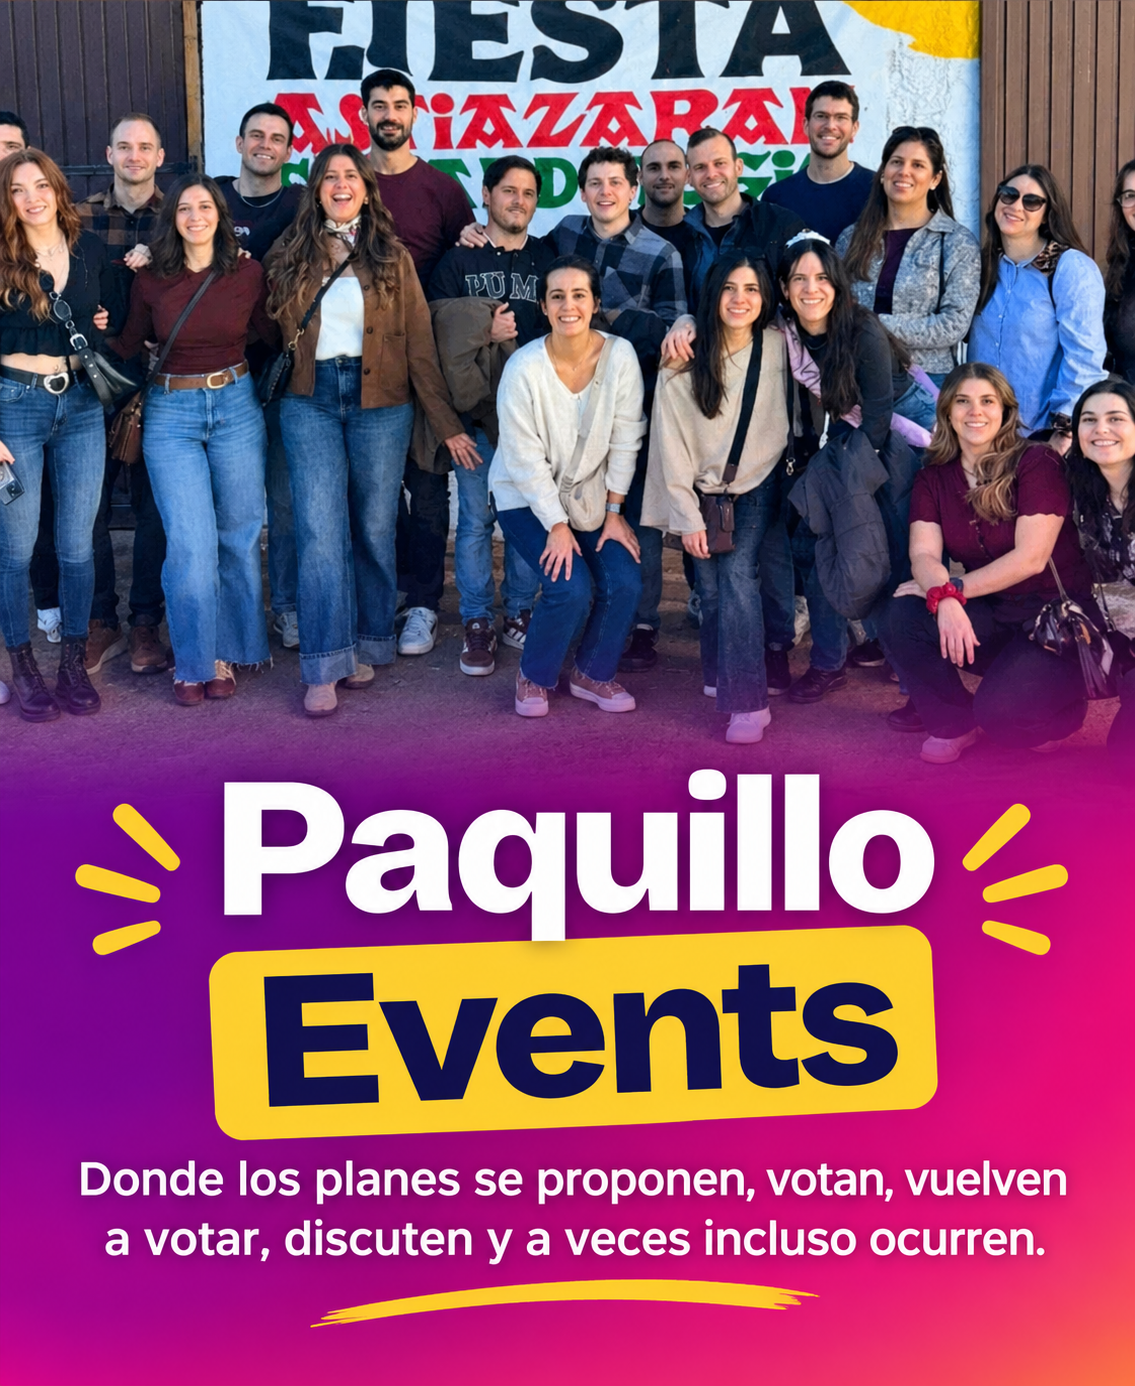
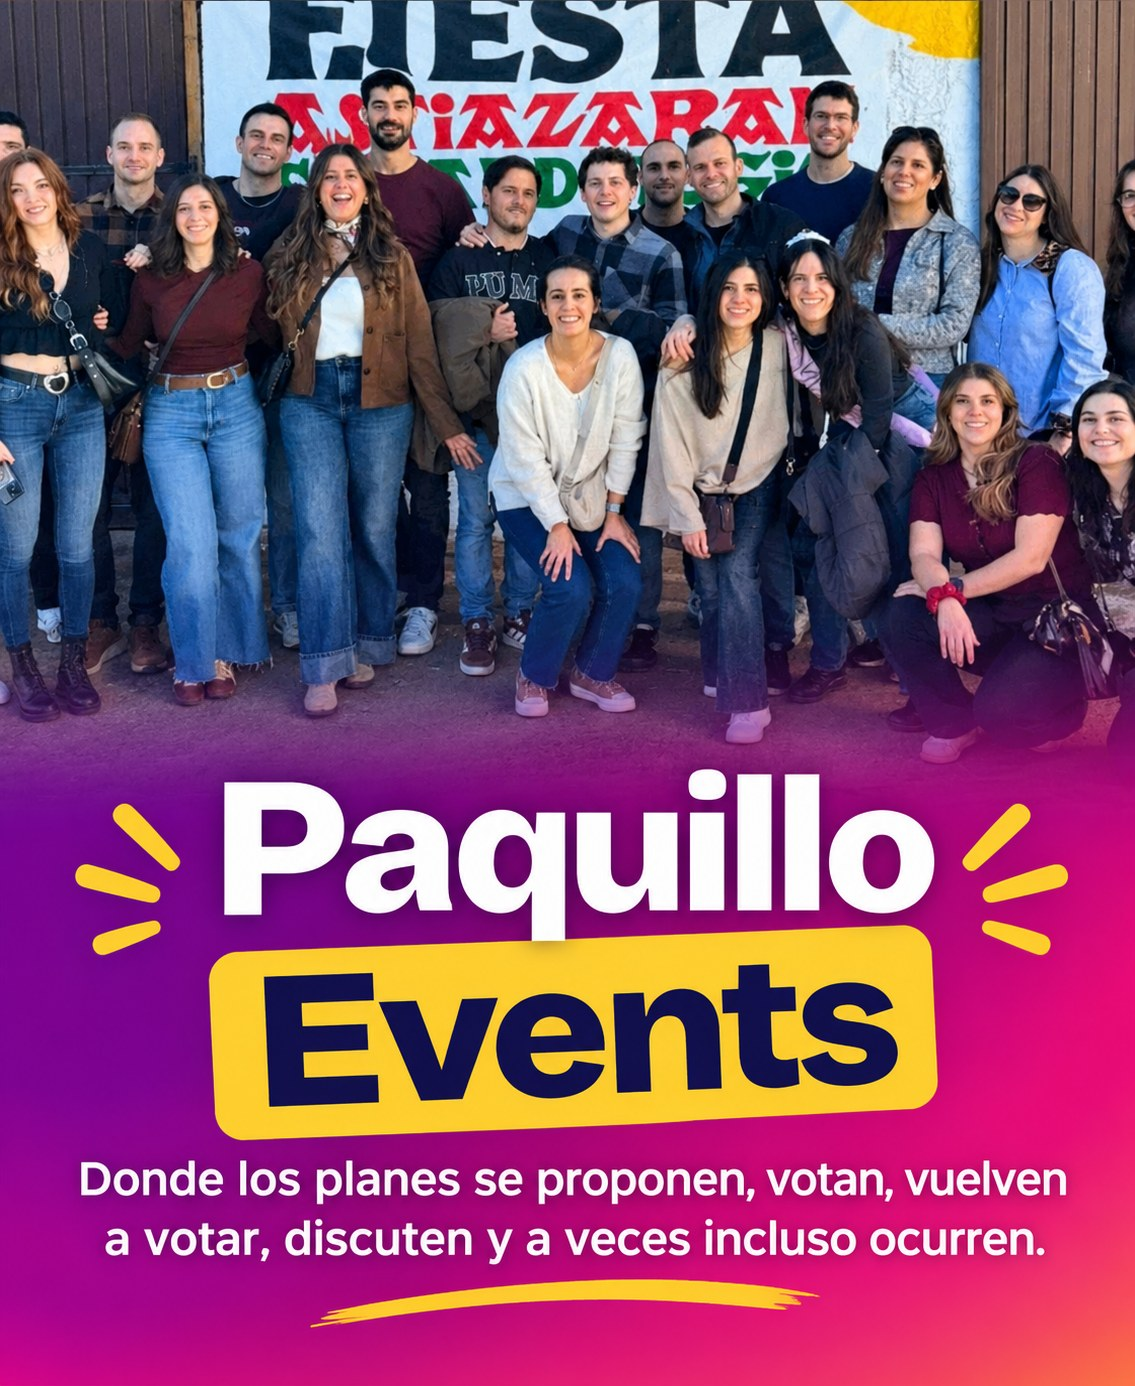
Add files via upload

diff --git a/index.html b/index.html
@@ -152,7 +152,8 @@ const EV=[
 {id:'san-miguel',e:'🍺',t:'Visita a la San Miguel',y:2026,by:'David y Richi',d:['2026-12-14'],ok:true,when:'14 de diciembre, a las 16:00',where:'San Miguel',map:'https://maps.app.goo.gl/CFwwpB7dvevBk9mE6',desc:'Un nuevo plan para beber un lunes.',poster:'img/cartel-san-miguel-2026.jpg'},
 {id:'pachanga',e:'🏀',t:'PaquiPachanga baloncesto, I edición',y:2026,by:'Iván y Sofía',d:['2026-12-19'],ok:true,when:'19 de diciembre (hora por confirmar)',where:'Talamillo',map:'https://maps.app.goo.gl/bieEhCVe8vLLVcLY8',desc:'Un puñado de gente que no sabe botar, ni driblar, ni cuántos pasos se pueden dar con el balón, a punto de jugar un partido de verdad. Se admiten dobles, pasos, canastas en propia y tiros que no tocan ni el aro. Las agujetas del día siguiente van de regalo.',poster:'img/cartel-pachanga-2026.jpg'},
 {id:'cena-navidad',e:'🎄',t:'Cena de Navidad 2026',y:2026,by:'Paquillo’s events in progress',d:['2026-12-19'],ok:true,when:'19 de diciembre, de 20:00 a 2:00',where:'Bibeme',map:'https://maps.app.goo.gl/QVhvjR26Cckd7DD37',desc:'Un nuevo evento navideño para los Paquillos, con catas y nuevas actividades.',poster:'img/cartel-cena-navidad-2026.jpg'},
-{id:'sidreria',e:'🍏',t:'Sidrería 2027',y:2027,by:'Por determinar',d:[],ok:false,when:'Fecha por determinar',where:'Sitio por determinar',map:'',desc:'Una sidrería nueva que visitar para generar anécdotas nuevas y seguir llenando el calendario. Fecha y sitio, muy pronto.'}
+{id:'sidreria',e:'🍏',t:'Sidrería 2027',y:2027,by:'Por determinar',d:[],ok:false,when:'Fecha por determinar',where:'Sitio por determinar',map:'',desc:'Una sidrería nueva que visitar para generar anécdotas nuevas y seguir llenando el calendario. Fecha y sitio, muy pronto.'},
+{id:'boda-ivan-sofia',e:'💍',t:'Boda Iván y Sofía',y:2027,by:'Iván y Sofía',d:['2027-07-03'],ok:true,when:'3 de julio de 2027',where:'Finca de Santa Rosalía',map:'https://maps.app.goo.gl/mreWd9JsBB69mkyQ7',desc:'Dos miembros más de Paquillo sellan su amor y se pasan al lado oscuro.',poster:'img/cartel-boda-ivan-sofia-2027.jpg'}
 ];
 const STK=[]; // cada sticker: {n:'nombre',src:'ruta'}
 const MES=['Enero','Febrero','Marzo','Abril','Mayo','Junio','Julio','Agosto','Septiembre','Octubre','Noviembre','Diciembre'];
